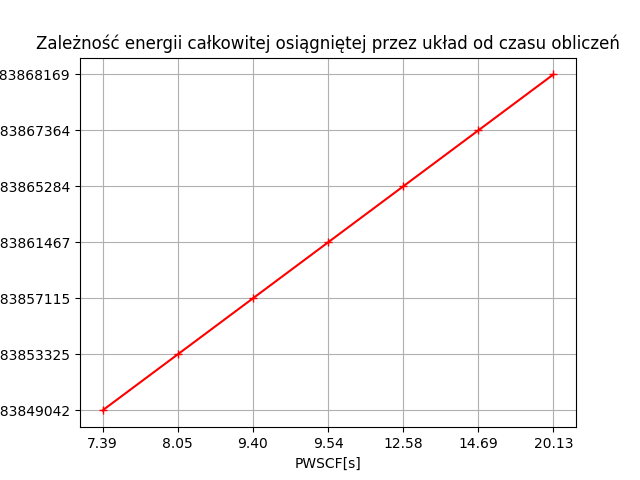
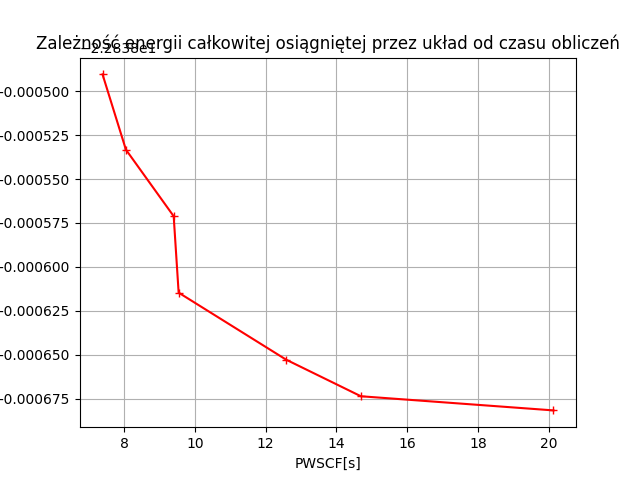
float

diff --git a/sk1.py b/sk1.py
@@ -8,9 +8,9 @@ with open('time.txt', 'r') as file:
     time = file.read()
 
 energy = energy.split(' ')
-energy = [p for p in energy if p and p[0] == '-']
+energy = [float(p) for p in energy if p and p[0] == '-']
 time = time.split(' ')
-time = [p.strip() for p in time if p and p != '\n']
+time = [float(p.strip()) for p in time if p and p != '\n']
 
 fig,ax = plt.subplots()
 ax.plot(time, energy, 'r-+')
@@ -18,3 +18,5 @@ ax.set(xlabel='PWSCF[s]', ylabel='energia całkowita [Ry]', title='Zależność 
 ax.grid()
 fig.savefig('skrypt1')
 
+print(time)
+print(energy)
